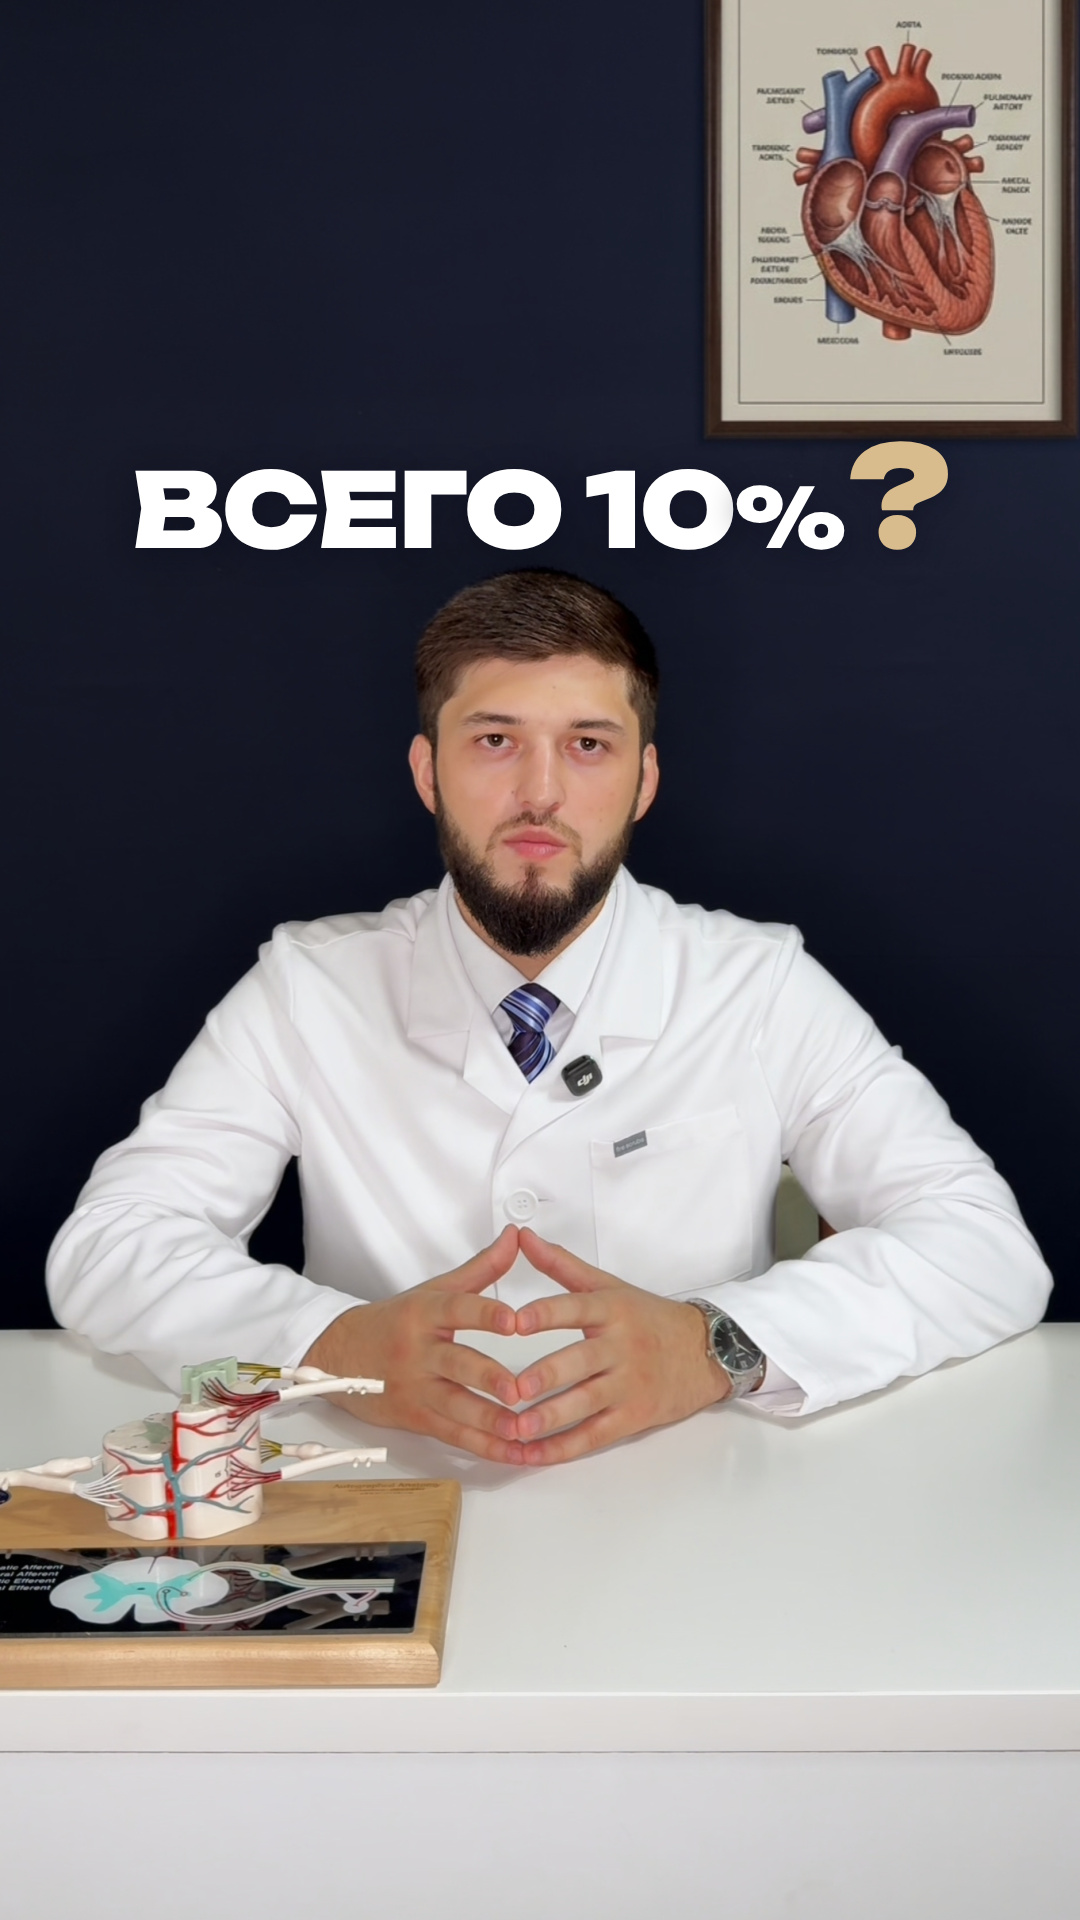
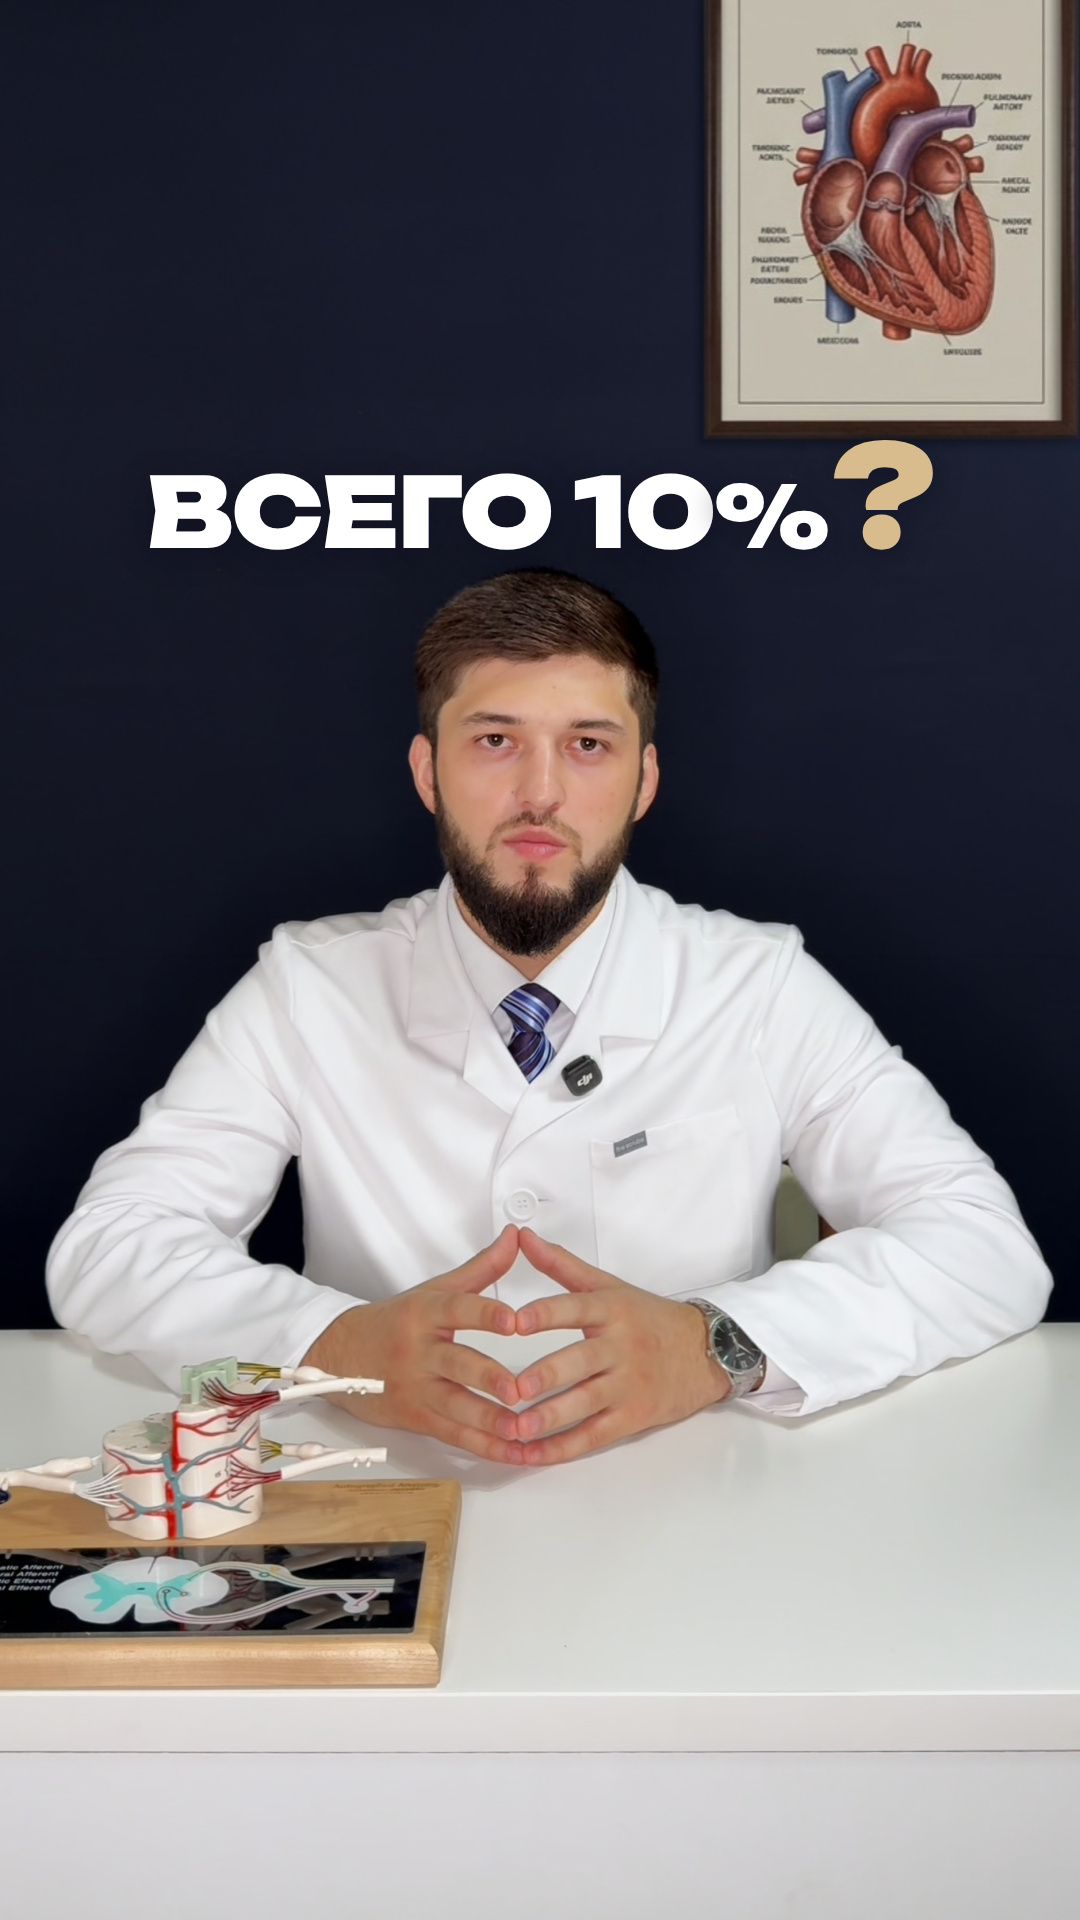
Reel 2 covers 17, 21, 22, 23: larger "?" (1.45) and "%" (0.88)
Lines re-centred: caps of 17/22 on the client's mark, 21/23 midway between
the poster and the head (21 at 100 px, 23 at 97 px so the taller "?" keeps
at least 20 px from the poster).

Claude-Session: https://claude.ai/code/session_01CUeAeRhq8HGUP8vv7VWuP4

Changed region(s): [[0.3972, 0.2188, 0.8861, 0.3125], [0.1222, 0.2188, 0.3056, 0.2812], [0.3361, 0.2188, 0.3667, 0.2812]]

diff --git a/doctor-intro-reels/reel_2/covers/cover.html b/doctor-intro-reels/reel_2/covers/cover.html
@@ -36,8 +36,8 @@
   .dots i { width: 16px; height: 16px; border-radius: 50%; background: rgba(255,255,255,.22); display: block; }
   .dots i.m { background: var(--acc); box-shadow: 0 0 14px rgba(216,188,142,.65); }
   .frame { position: absolute; border: 2px solid rgba(216,188,142,.85); border-radius: 26px; }
-  .pct { font-size: .8em; }                          /* «%» чуть меньше цифр */
-  .q { font-size: 1.35em; margin-left: .03em; }      /* «?» крупнее строки */
+  .pct { font-size: .88em; }                         /* «%» чуть меньше цифр */
+  .q { font-size: 1.45em; margin-left: .03em; }      /* «?» крупнее строки */
   .mark { display: inline-block; line-height: .84; padding: .07em .1em .03em; background: var(--acc); color: #151b34;
           border-radius: .07em; text-shadow: none; }
   html.measure img.full { visibility: hidden; }
@@ -110,7 +110,7 @@ const V = {
   16: { z: "c", base: "base2", person: true, behind: `
       <div class="t inter" data-w="944" data-center style="top:421px; font-weight:900; font-size:170px; letter-spacing:-.035em">Всего 10%<span class="acc" style="font-size:1.1em">?!</span></div>` },
   17: { z: "b", base: "base2", front: `
-      <div class="t unb" data-w="652" style="left:30px; top:291px; font-weight:900; font-size:90px; letter-spacing:-.02em">ВСЕГО 10<span class="pct">%</span><span class="acc q">?</span></div>` },
+      <div class="t unb" data-w="652" style="left:30px; top:285px; font-weight:900; font-size:90px; letter-spacing:-.02em">ВСЕГО 10<span class="pct">%</span><span class="acc q">?</span></div>` },
   18: { z: "b", base: "base2", person: true, behind: `
       <div class="t osw" data-w="944" data-center style="top:432px; font-weight:700; font-size:180px; letter-spacing:.01em">ВСЕГО 10%<span class="coral" style="font-size:1.06em">?!</span></div>` },
   19: { z: "a", base: "base2", front: `
@@ -119,13 +119,13 @@ const V = {
       <div class="t mont" data-w="800" data-center style="top:398px; font-weight:900; font-size:110px; letter-spacing:-.02em">Всего <span class="mark">10%</span><span style="font-size:1.1em">?!</span></div>` },
   // № 21 — № 17 в прежнем виде (до правок по разметке), только без «!»: тот же кегль, по центру.
   21: { z: "b", base: "base2", front: `
-      <div class="t unb" data-center style="top:430px; font-weight:900; font-size:105px; letter-spacing:-.02em">ВСЕГО 10<span class="pct">%</span><span class="acc q">?</span></div>` },
+      <div class="t unb" data-center style="top:428px; font-weight:900; font-size:100px; letter-spacing:-.02em">ВСЕГО 10<span class="pct">%</span><span class="acc q">?</span></div>` },
   // № 22, 23 — № 17 и № 21 на кадре со скриншота заказчика (base3: руки сложены, ник убран);
   // голова здесь на 7 px выше, поэтому строка № 23 чуть меньше — зазоры до картины и макушки равны.
   22: { z: "b", base: "base3", front: `
-      <div class="t unb" data-w="652" style="left:30px; top:291px; font-weight:900; font-size:90px; letter-spacing:-.02em">ВСЕГО 10<span class="pct">%</span><span class="acc q">?</span></div>` },
+      <div class="t unb" data-w="652" style="left:30px; top:285px; font-weight:900; font-size:90px; letter-spacing:-.02em">ВСЕГО 10<span class="pct">%</span><span class="acc q">?</span></div>` },
   23: { z: "b", base: "base3", front: `
-      <div class="t unb" data-center style="top:427px; font-weight:900; font-size:103px; letter-spacing:-.02em">ВСЕГО 10<span class="pct">%</span><span class="acc q">?</span></div>` },
+      <div class="t unb" data-center style="top:425px; font-weight:900; font-size:97px; letter-spacing:-.02em">ВСЕГО 10<span class="pct">%</span><span class="acc q">?</span></div>` },
 };
 window.setVariant = async (n) => {
   const v = V[n];

diff --git a/doctor-intro-reels/reel_2/covers/README.md b/doctor-intro-reels/reel_2/covers/README.md
@@ -3,7 +3,7 @@
 **Готовые обложки:** `output/cover_01.jpg` … `output/cover_23.jpg` — 1080×1920 (9:16), JPG 95 %.
 № 16–23 — вторая серия: «Всего 10%?!» в одну строку; вариант 2 серии — в двух видах: № 17
 («ВСЕГО 10%?» по разметке заказчика) и № 21 (прежний вид, без «!»); № 22 и 23 — они же на кадре
-со второго скриншота заказчика. В № 17, 21, 22, 23 «?» крупнее строки (1,35), «%» чуть меньше цифр (0,8). Обзоры каждой серии: `output/_обзор_1-15_…`,
+со второго скриншота заказчика. В № 17, 21, 22, 23 «?» крупнее строки (1,45), «%» чуть меньше цифр (0,88). Обзоры каждой серии: `output/_обзор_1-15_…`,
 `output/_обзор_16-23_…` — обложка целиком (9:16) и как она выглядит в сетке профиля (3:4).
 
 - **Кадр** взят прямо из 4K-исходника, обработка та же, что в ролике (HDR→SDR, картина сердца
